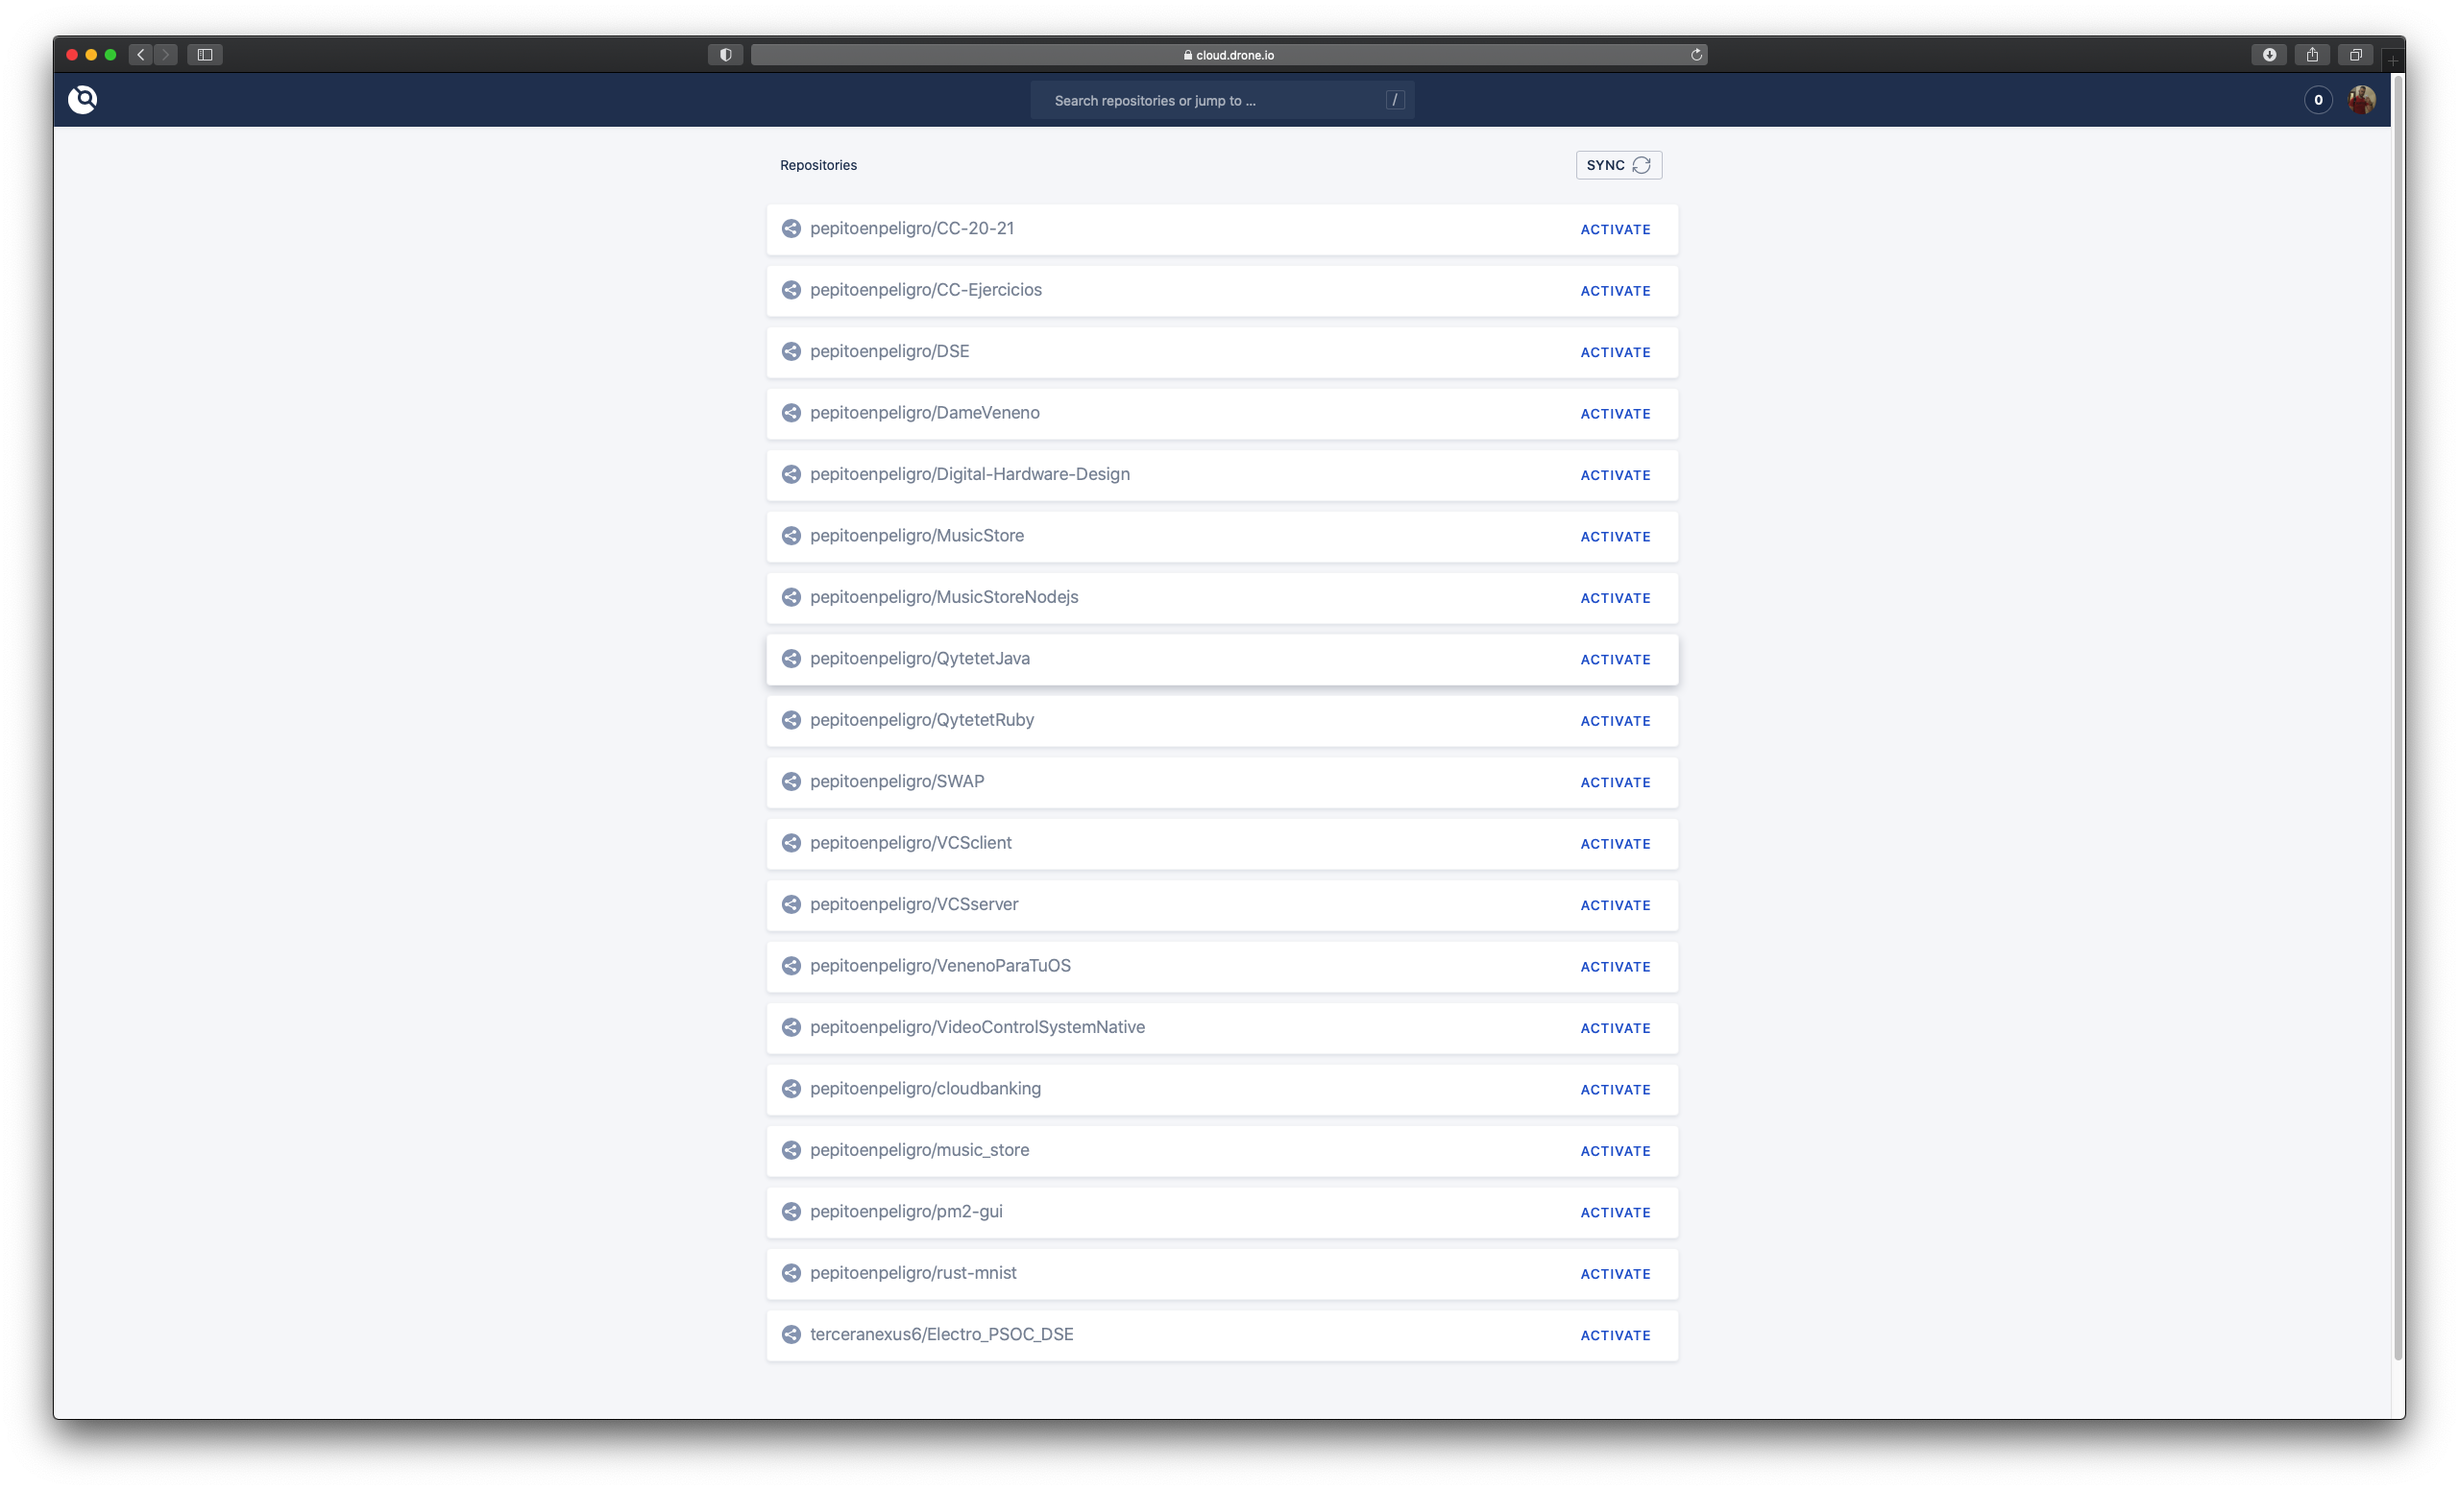
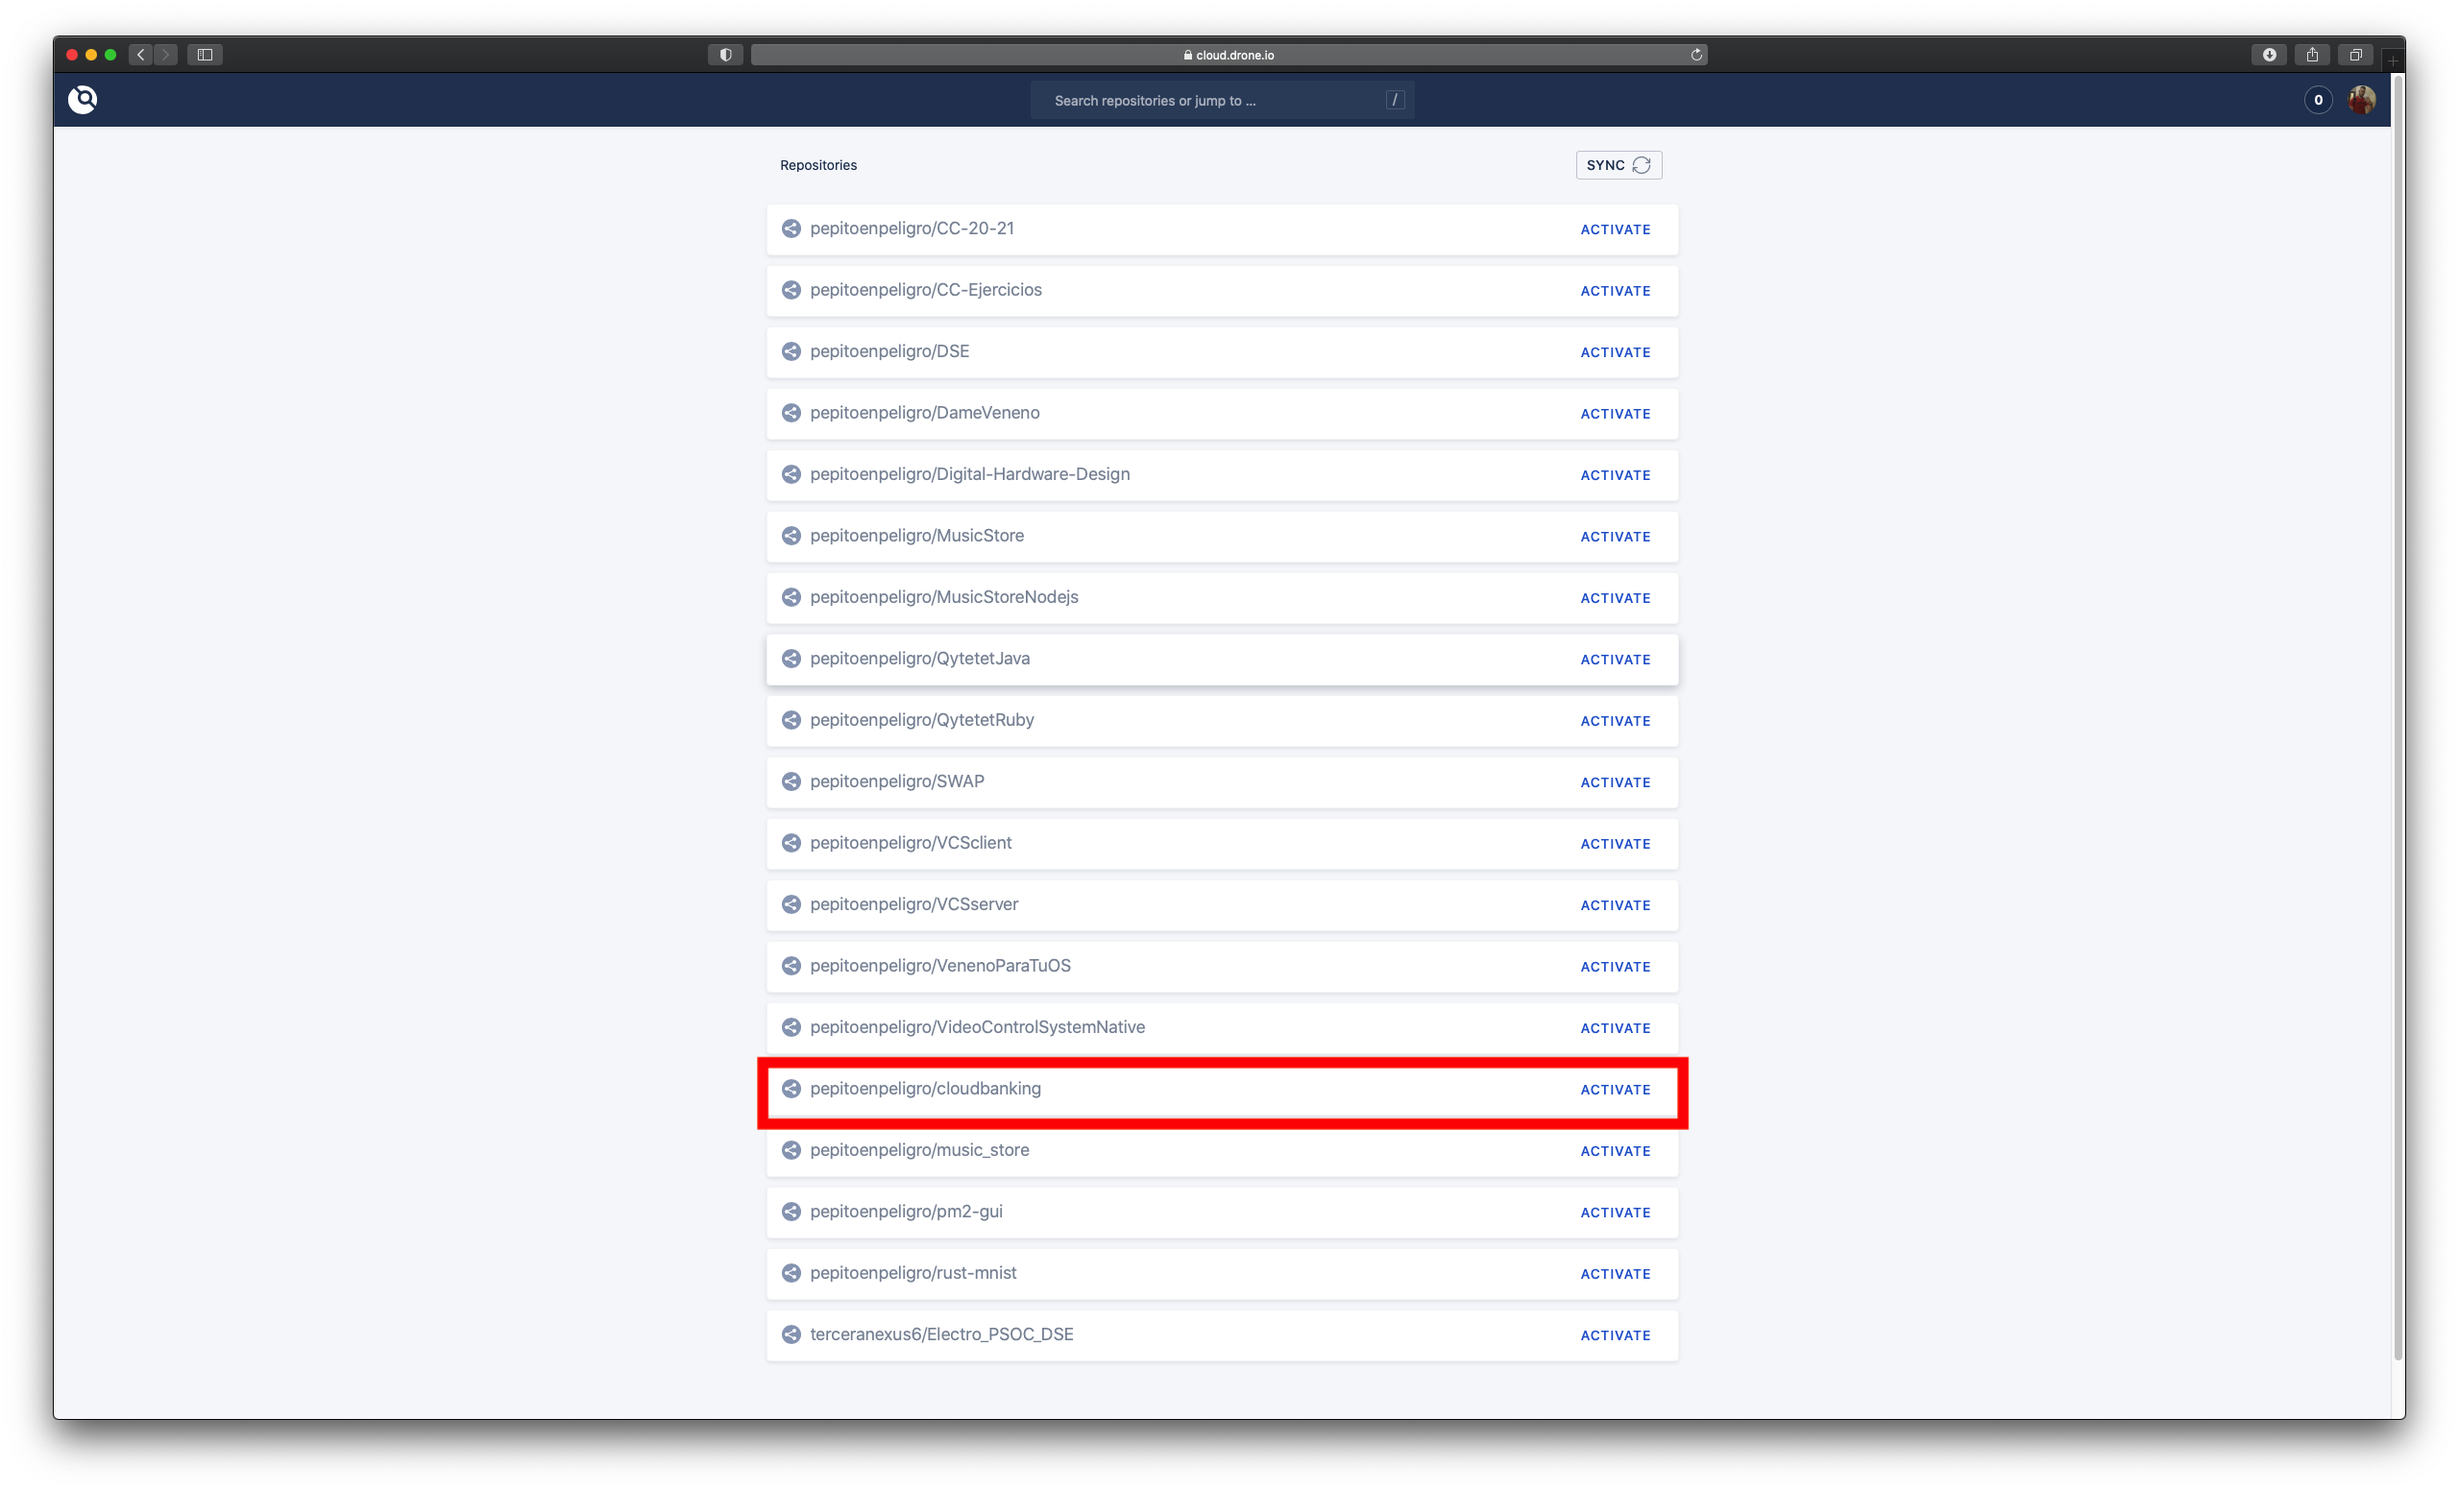
Fix #62 updating doc about Drone.io

Changed region(s): [[0.2812, 0.7113, 0.6875, 0.7732]]

diff --git a/docs/4/r3.md b/docs/4/r3.md
@@ -108,14 +108,55 @@ If we observe the details of the execution of the *pipeline* we can check that a
 
 ## Drone.io
 
+The first step is to go to the main [page of the platform](https://www.drone.io).
 ![](img/r3/09.png)
+
+We signed up with Github and authorized Drone.io
 ![](img/r3/10.png)
+
+
+We see the list of available repositories and select **cloudbanking**
 ![](img/r3/11.png)
+
+And activate the repo:
+
 ![](img/r3/12.png)
+
+We should indicate which file will be read from drone.io:
+
 ![](img/r3/13.png)
+
+Now, it's time to define the pipeline:
+
+
+```yaml
+kind: pipeline
+type: docker # Running into a docker container
+name: default
+
+steps:
+  # Listing the cargo version and rustc version
+- name: listversion # name of the step
+  image: rust:1.48  # base image of running docker container
+  commands: 
+  - cargo --version && rustc --version
+
+- name: test
+  # Running the test
+  image: rust:1.48 # base image of running docker container
+  commands:
+  - cargo test -- --nocapture
+```
+
+We perform a commit and push of the repo and then the execution of the *pipeline* appears:
+
 ![](img/r3/14.png)
 ![](img/r3/15.png)
+
+In drone.io we can see the result of each stage:
 ![](img/r3/16.png)
+
+
 ![](img/r3/17.png)
 ![](img/r3/18.png)
 
